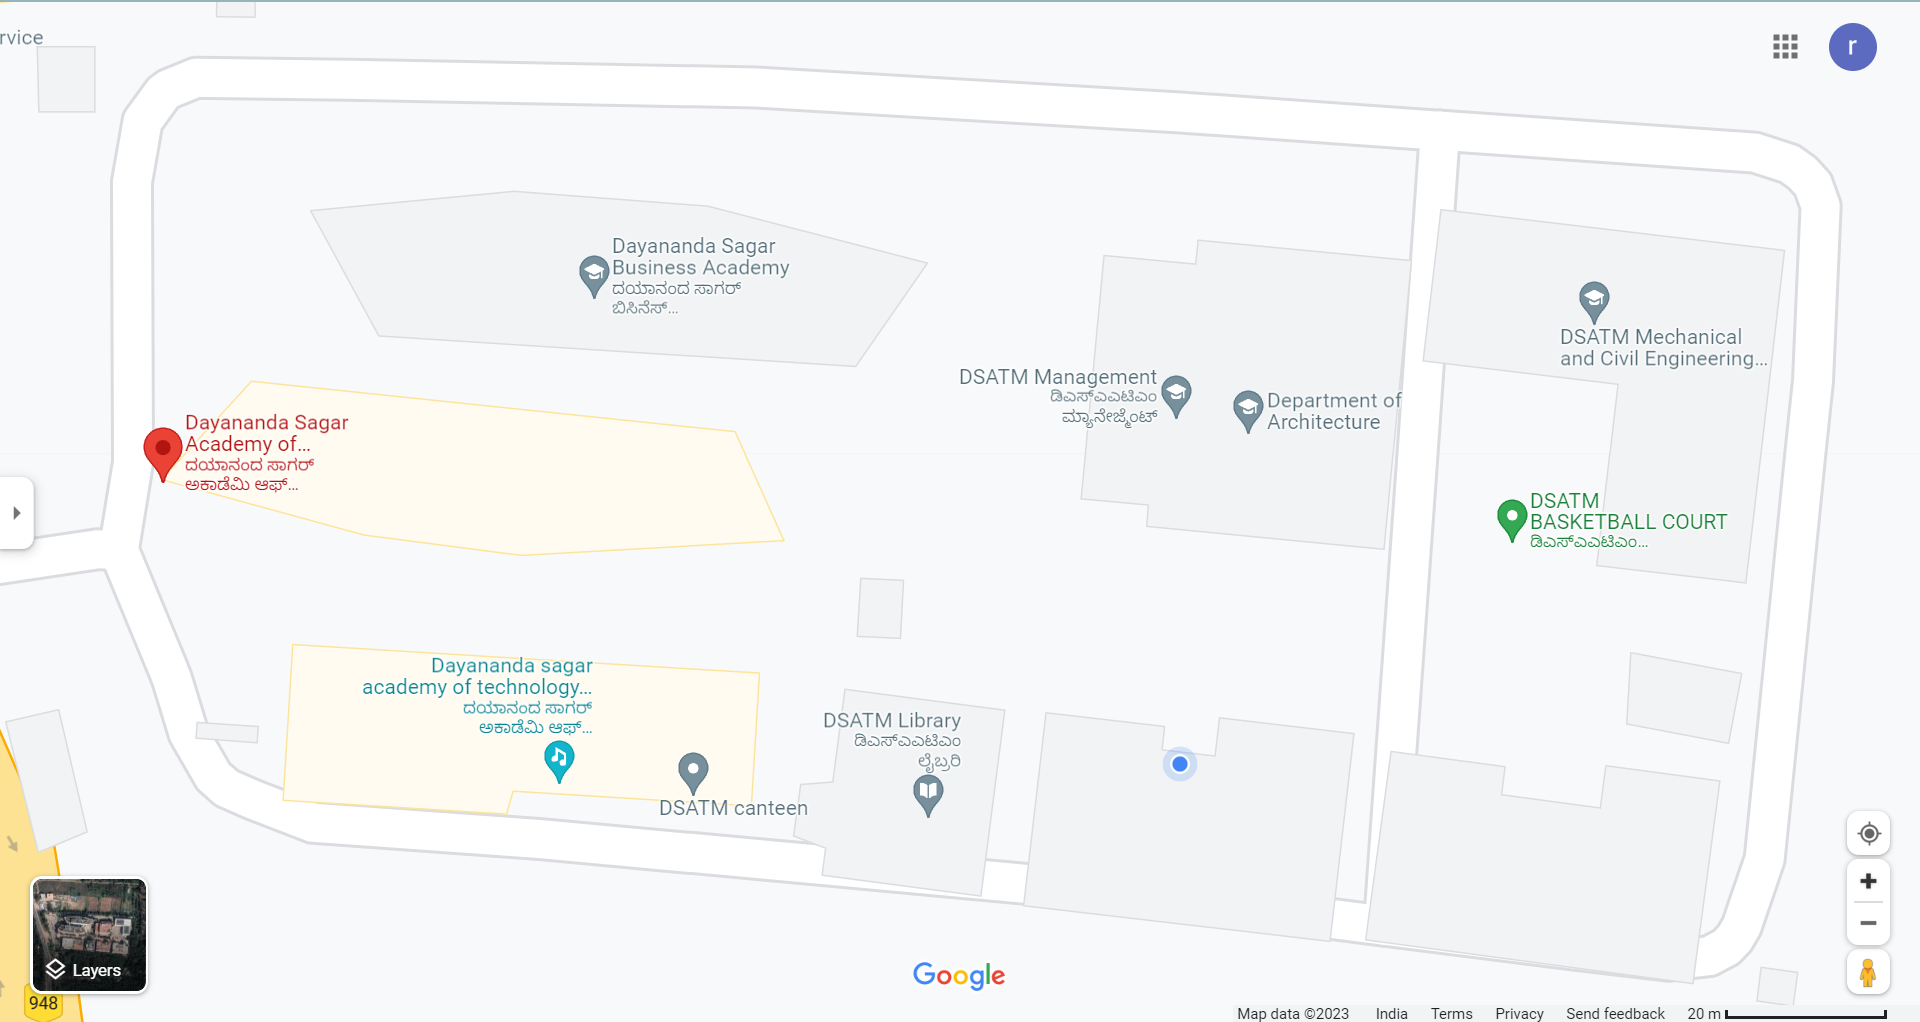
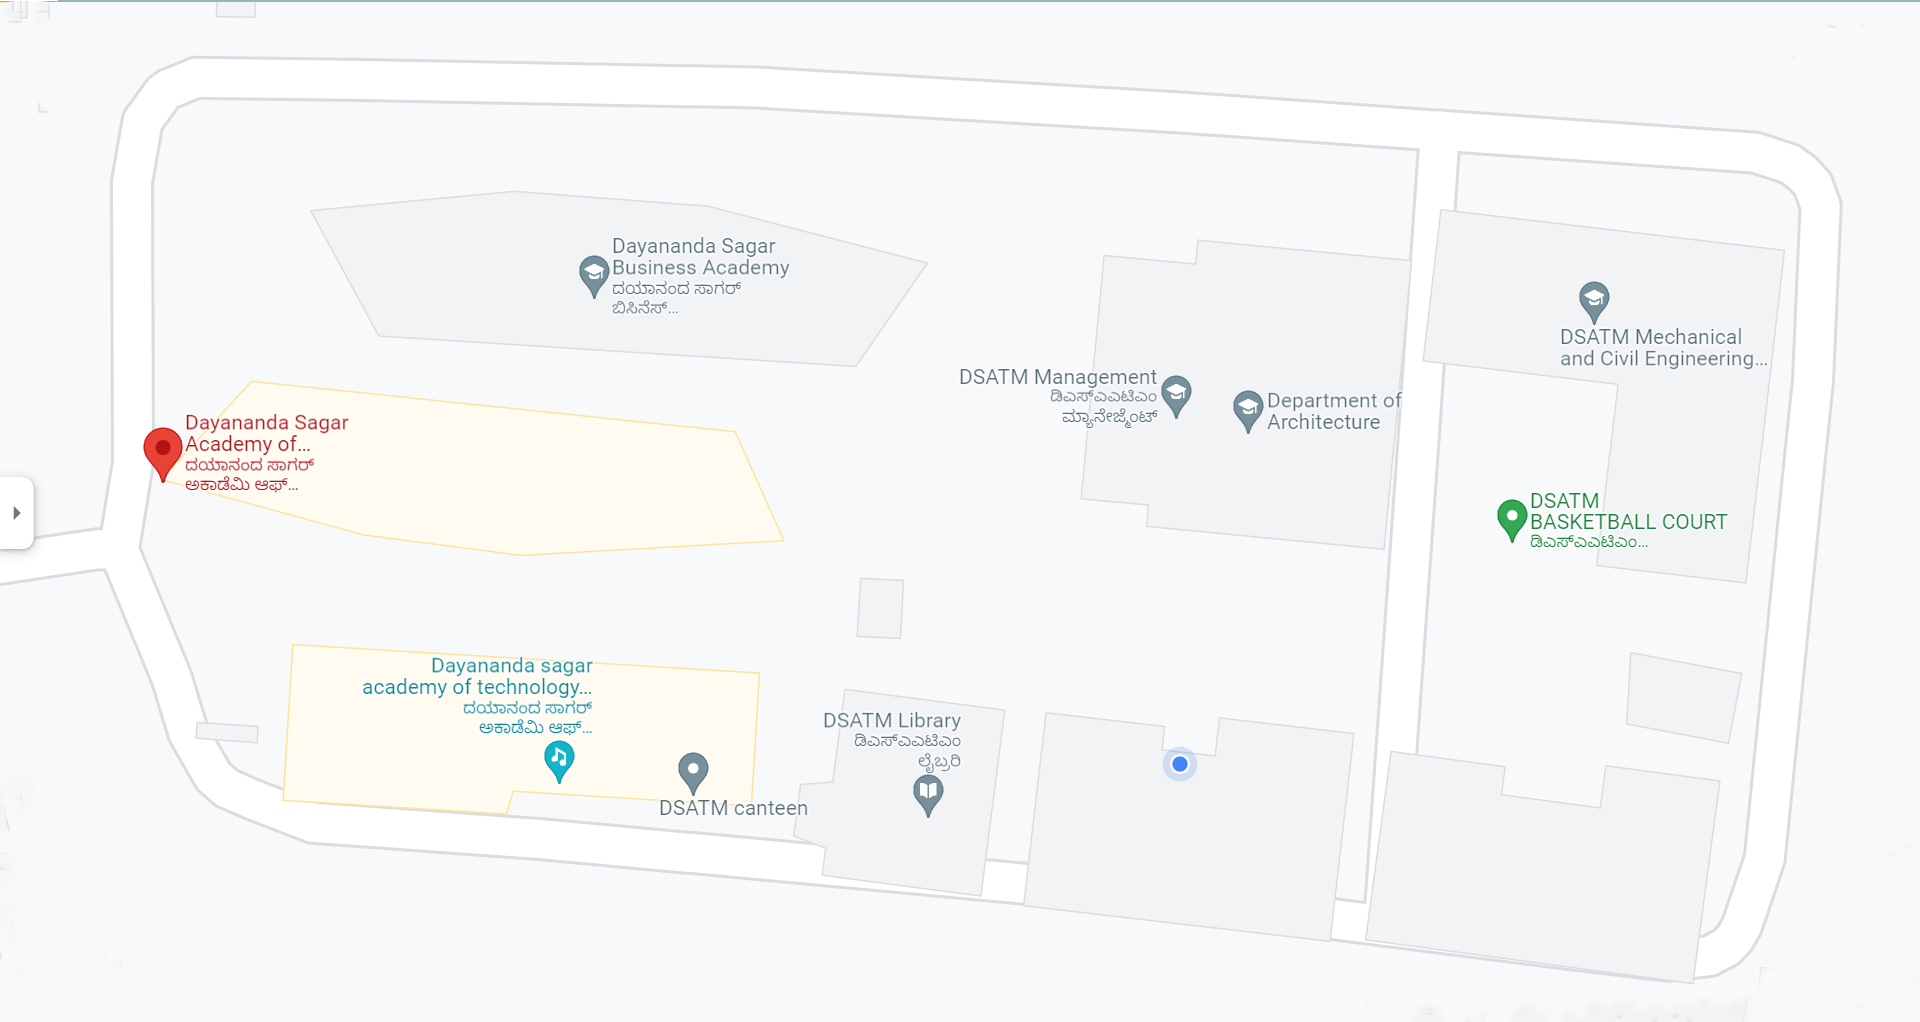
minor-4

diff --git a/index.html b/index.html
@@ -58,7 +58,7 @@
            
           </div>
           
-          <h1    style="text-align: center ; font-family: 'Courier New', Courier, monospace; " >about us</h1>
+          <h1    style="text-align: center ; font-family: 'Courier New', Courier, monospace; font-weight: bolder; " >Dayananda Sagar Academy of Technology and Management</h1>
             <div class="main-bg1">
                   <div class=" d-flex flex-row justify-content-right">
                         <img src="images/download.jpg" height="200" width="200">
@@ -71,7 +71,7 @@
                      </p>
            </div>
            <div class="d-flex flex-column justify-content-end">
-           <img src="images/college-layout.png"   alt="no image inserted" height="500">
+           <img src="images/college-layout.png"  style="mix-blend-mode:multiply;" alt="no image inserted" height="500">
                  <a class="d-flex flex-row justify-content-end" href="https://www.google.com/maps/place/Dayananda+Sagar+Academy+of+Technology+and+Management+(DSATM)/@12.7453457,77.5757115,8.75z/data=!4m6!3m5!1s0x3bae41057dd66abf:0xfda823a3ca1775ea!8m2!3d12.8251583!4d77.5140301!16s%2Fg%2F11f70_6z11?entry=ttu">
                   <button class="btn font1" style="margin-bottom: 38px; margin-right: 5px; margin-top: 3px; font-weight: bold; " >location</button>
                  </a>
@@ -112,7 +112,19 @@
           </div>
     
    
-      
+          <h1    style="text-align: center ; font-family: 'Courier New', Courier, monospace; font-weight: bolder; " >Events Section</h1>
+          <div class="main-bg1">
+                <div class=" d-flex flex-row justify-content-right">
+                     
+                       <p1 style="margin: 10px;">
+                             
+                       </p1>
+                   </div>
+                   
+         </div>
+
+
+
 
     </div>
     

diff --git a/css(trali).css b/css(trali).css
@@ -24,6 +24,8 @@
     color:black;
     background-color: white;
     border-style: solid;
+    font-family: 'Courier New', Courier, monospace;
+    font-weight: bold;
    
 }
 
@@ -32,6 +34,8 @@
     color: #66FCF1;
     border-radius: 5px;
     width: 100%;
+    font-family: 'Courier New', Courier, monospace;
+    font-weight: bold;
 }
 
 .bg-container {
